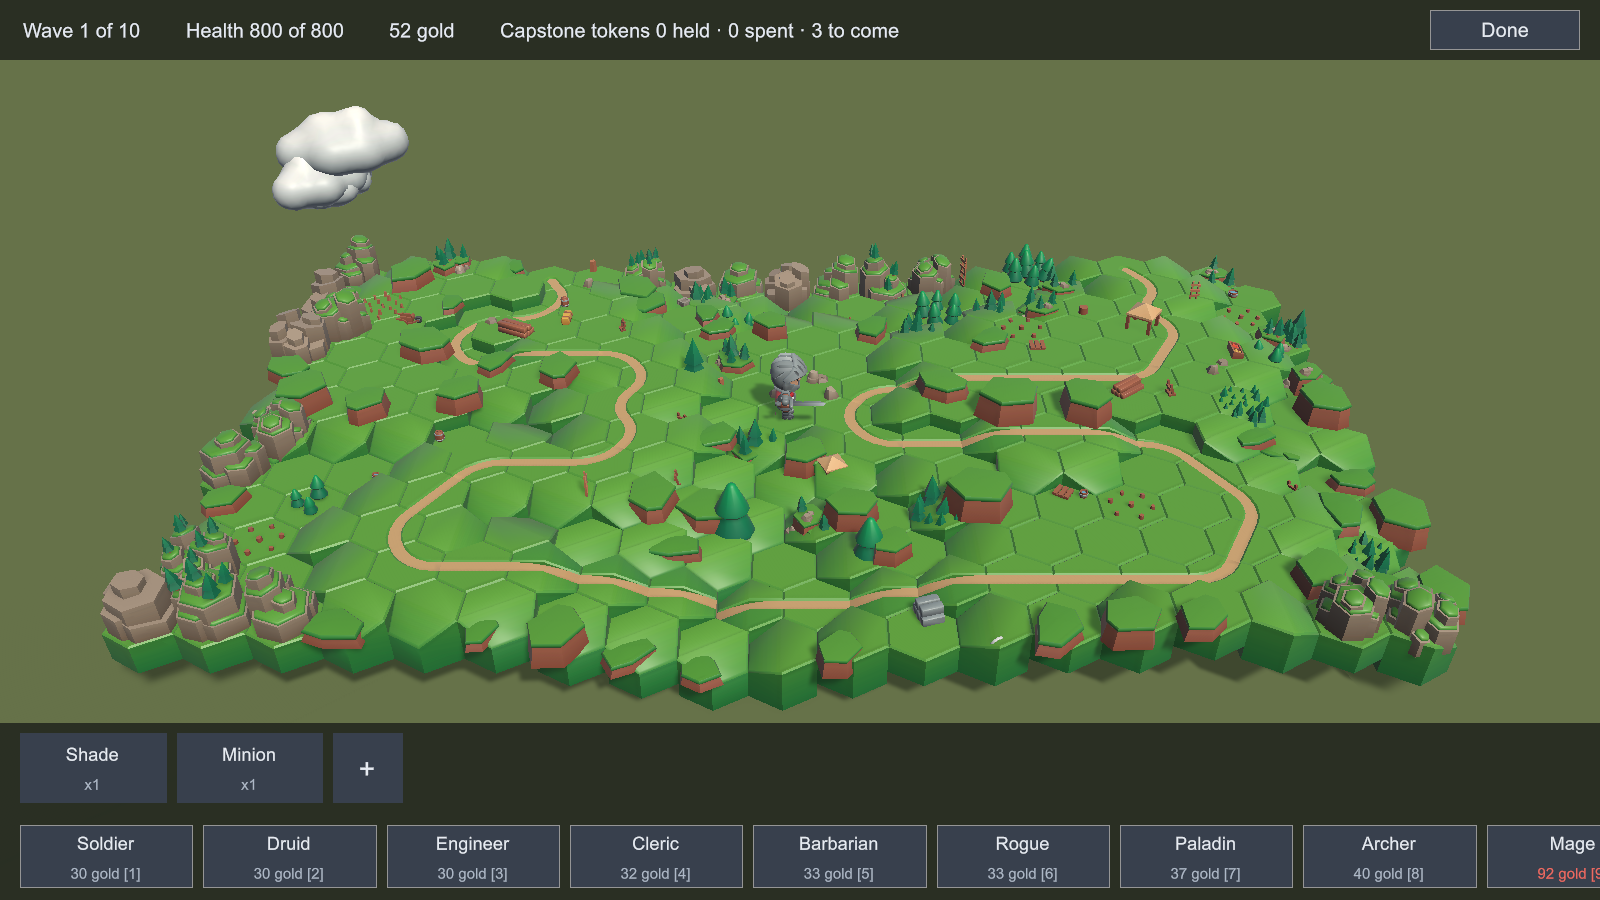
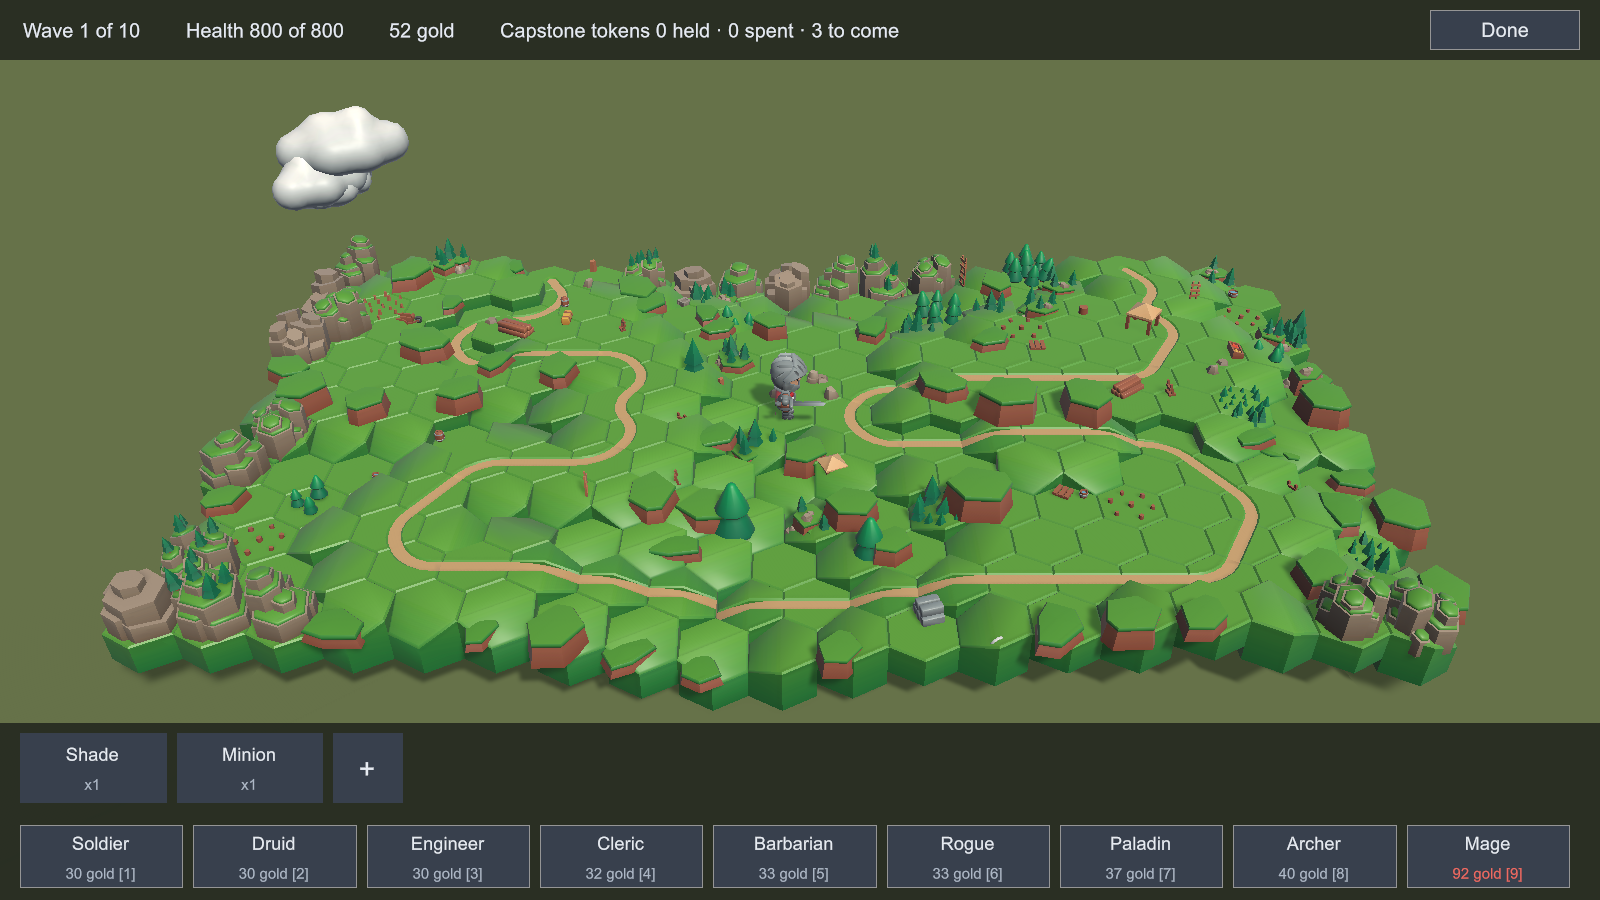
The palette bar's ninth entry fits, and a tenth turns a test red
Sam ruled on #275 in the #285 sitting on 12 September: shrink each entry
so nine fit -- "the UI will need a major pass anyway. Everything chrome is
placeholder." TowerPalette.EntryWidth goes from 208 to 196: nine at 196 +
12 want 1872 of the 1872 a 1920-unit panel has between its margins, the
exact fit. The number is tuned to today's nine roots and is a holding
answer beside the three #294 signed, not a direction; the offer's 208 and
the two-line rung are untouched, since the offer is its own width.

Shrink over the wave bar's scroll because it is the one shape under which
the tenth root turns a test red rather than clipping or hiding quietly.
ChromeLayoutTests.EveryRootOnTheRosterFitsThePaletteBar asserts the last
entry's right edge is inside the bar's padding, read off the bar's own
resolved layout. The palette's panel is pointed at a 1600x900 texture
first, the way UiPreviewCapture does: every panel matches height, so its
width in units follows the window's aspect, and a batchmode editor's
screen is 640x480, at which the bar is 1440 units wide and fits nothing.
The premise -- a 1920-unit bar -- is asserted before the fit. Against 208
the test read "Entry Mage ends 96 units past the bar's padding".

The three baseline chrome sheets and the five in docs/chrome/overflows/
are redrawn with the Mage on the bar. The decision log carries the ruling;
docs/chrome/README.md names the fourth holding answer; the test inventory
declares six for ChromeLayoutTests.
[…]

Changed region(s): [[0.0312, 0.9022, 1.0, 0.9956]]

diff --git a/client/Assets/Tests/PlayMode/ChromeLayoutTests.cs b/client/Assets/Tests/PlayMode/ChromeLayoutTests.cs
@@ -58,6 +58,10 @@ namespace Tests.PlayMode
 
         private const int FreeRow = 0;
 
+        private const int PlayerWidth = 1600;
+
+        private const int PlayerHeight = 900;
+
         /// <summary>
         /// Build mode puts three bars up. Each is asserted, because they are
         /// three panels built independently and a fix that reached only the one
@@ -235,6 +239,45 @@ namespace Tests.PlayMode
                 tooWide.ToString(),
                 Is.Empty,
                 "Names wider than the " + room.ToString("F0") + " units a rung has for one: " + tooWide);
+        }
+
+        [UnityTest]
+        public IEnumerator EveryRootOnTheRosterFitsThePaletteBar()
+        {
+            MatchRoot root = Playfield();
+
+            root.BeginRun(TheMatchOnScreen.Seed, Scratch(), TheMatchOnScreen.Art());
+
+            var playerScreen = new RenderTexture(PlayerWidth, PlayerHeight, 24) { name = "Player screen" };
+
+            try
+            {
+                root.Palette.Document.panelSettings.targetTexture = playerScreen;
+
+                yield return null;
+                yield return null;
+
+                VisualElement bar = root.Palette.Document.rootVisualElement.Q<VisualElement>("Palette");
+                IReadOnlyList<Button> entries = root.Palette.Entries;
+                float barsRightEdge = bar.worldBound.xMax - bar.resolvedStyle.paddingRight;
+                Button last = entries[entries.Count - 1];
+
+                Assert.That(entries.Count, Is.EqualTo(root.Composing.Palette.Count), "One entry per root the round may build.");
+                Assert.That(
+                    bar.worldBound.width,
+                    Is.EqualTo(RuntimePanel.ReferenceResolution.x).Within(1f),
+                    "The premise: the bar is laid out at the width the player gives it.");
+                Assert.That(
+                    last.worldBound.xMax,
+                    Is.LessThanOrEqualTo(barsRightEdge),
+                    "The last entry, " + last.name + ", ends " + (last.worldBound.xMax - barsRightEdge).ToString("F0")
+                    + " units past the bar's padding; every root has to fit the bar or the next one added clips quietly.");
+            }
+            finally
+            {
+                playerScreen.Release();
+                Object.Destroy(playerScreen);
+            }
         }
 
         /// <summary>

diff --git a/client/Assets/View/TowerPalette.cs b/client/Assets/View/TowerPalette.cs
@@ -83,7 +83,7 @@ namespace View
         /// </summary>
         public const float BarHeight = 104f;
 
-        private const float EntryWidth = 208f;
+        private const float EntryWidth = 196f;
 
         private const float EntryHeight = 76f;
 

diff --git a/docs/decision-log.md b/docs/decision-log.md
@@ -2440,3 +2440,23 @@ by a colour.
 
 EditMode **149 of 149** and PlayMode **175 of 175** after the scene was rebuilt with the new bindings, editor closed. Eleven committed frames redrawn under the signed art — the Engineer line posed and its turrets stepped, the Bishop's bolt off the hand, the Mage's orb above the hat — and the five default-framing and effects-roster frames byte-identical, since no changed row fires on those ticks. `check-docs` green on every claim.
 No golden moved; `content/` is untouched.
+
+## 12 September 2026 — the palette bar's ninth entry fits, and the number that fits it is a holding answer
+
+[#256](https://github.com/ssalter21/tower-defense-game/issues/256) took the roster from three buildable roots to nine, and the bar clipped the ninth: an entry was 208 units wide with `flexShrink` 0, and nine of them at 208 + 12 want 1980 of the 1872 a 1920-unit panel has between its margins. The Mage was cut off at the right edge on every chrome sheet since, reachable by the key `9` and not by the pointer. [#275](https://github.com/ssalter21/tower-defense-game/issues/275) recorded it rather than fixing it, because how nine entries lay out is a visual decision. Sam ruled in the [#285](https://github.com/ssalter21/tower-defense-game/issues/285) sitting on 12 September: shrink each entry so nine fit, with *"the UI will need a major pass anyway. Everything chrome is placeholder."*
+
+| Where | What it said | What is true now | Why |
+|---|---|---|---|
+| **`TowerPalette`, an entry** | 208 wide, nine of them on a 1920-unit panel | **196 wide.** Nine at 196 + 12 want 1872 of the 1872 between the margins — the exact fit | Off shrink, wrap, scroll and widen — the wave bar's three shapes are drawn on the row directly above the palette on `docs/chrome/overflows/wave-bar.png`, so the sitting read what each costs off that sheet. Shrink is the one shape under which a **tenth** root turns a test red rather than clipping or hiding quietly. The number is tuned to today's nine roots; the offer stays 208 and the two-line rung is untouched, since the offer is its own width |
+
+### A tenth root turns a test red
+
+`ChromeLayoutTests.EveryRootOnTheRosterFitsThePaletteBar` asserts the last entry's right edge is inside the bar's padding, read off the bar's own resolved layout the way the rung test reads a rung rather than a copy of the constant. The palette's panel is pointed at a 1600×900 texture first — the size the built player runs at and the sheets are drawn at — because every panel matches *height*, so its width in units is the window's aspect ratio, and a batchmode editor's screen is 640 by 480, at which the bar is 1440 units wide and fits nothing. The premise is asserted before the fit: the bar is 1920 units wide. Against the shipped 208 the test read *Entry Mage ends 96 units past the bar's padding*.
+
+### The fourth holding answer
+
+[`docs/chrome/README.md`](chrome/README.md) names it beside the scroll view, the two-line rung and the header field: what keeps nine roots on the bar until the chrome is directed, and not a direction. The chosen arrangement from 17 August is still where the build phase is going.
+
+### What the numbers came to
+
+EditMode **149 of 149**, PlayMode **176 of 176** -- one more, `EveryRootOnTheRosterFitsThePaletteBar` -- and **the same 176 in a built player**, `run-player-tests.ps1`, 174 passed and the two parity tests skipped as they always are, editor closed throughout. The three baseline chrome sheets and the five in `docs/chrome/overflows/` redrawn with the ninth entry on the bar. `check-docs` green on every claim. `content/` is untouched and no golden moved.

diff --git a/docs/chrome/README.md b/docs/chrome/README.md
@@ -70,8 +70,11 @@ it as *invalid escape character* rather than as a bad path.
 [#285](https://github.com/ssalter21/tower-defense-game/issues/285) signed the three answers in
 [`overflows/`](overflows/README.md) — the wave bar scrolls, a rung's price goes beneath its name, the
 capstone-token count is a fourth header field — with the words that the chrome as a whole "will need a major
-rework", since nothing that currently exists was ever directed. The chosen arrangement above is still the
-direction; these keep the roster's forty-four rows on screen until it is built.
+rework", since nothing that currently exists was ever directed. On 12 September the same sitting signed a
+fourth for [#275](https://github.com/ssalter21/tower-defense-game/issues/275): a palette entry is 196 wide,
+the width at which today's nine roots exactly fill the bar, and a tenth turns `ChromeLayoutTests` red. The
+chosen arrangement above is still the direction; these keep the roster's forty-four rows on screen until it is
+built.
 
 **The baseline**, three sheets of the chrome as it stands, which is what a candidate is held against:
 

diff --git a/docs/chrome/overflows/README.md b/docs/chrome/overflows/README.md
@@ -46,4 +46,6 @@ three quarters of the pool. Nobody tuned it.
 `Tests.PlayMode/ChromeLayoutTests` carries one assertion per overflow, against the roster as shipped rather
 than the count that fitted today: the bar scrolls to its empty box with every creep in it; every name on the
 roster fits a rung over the longest price; the header's four fields sit before the button with the spacer
-still holding width. The next row added turns one of them red rather than clipping quietly.
+still holding width; and, since [#275](https://github.com/ssalter21/tower-defense-game/issues/275), every
+root the round may build fits the palette bar on the row beneath — the bar in every sheet here. The next row
+added turns one of them red rather than clipping quietly.
